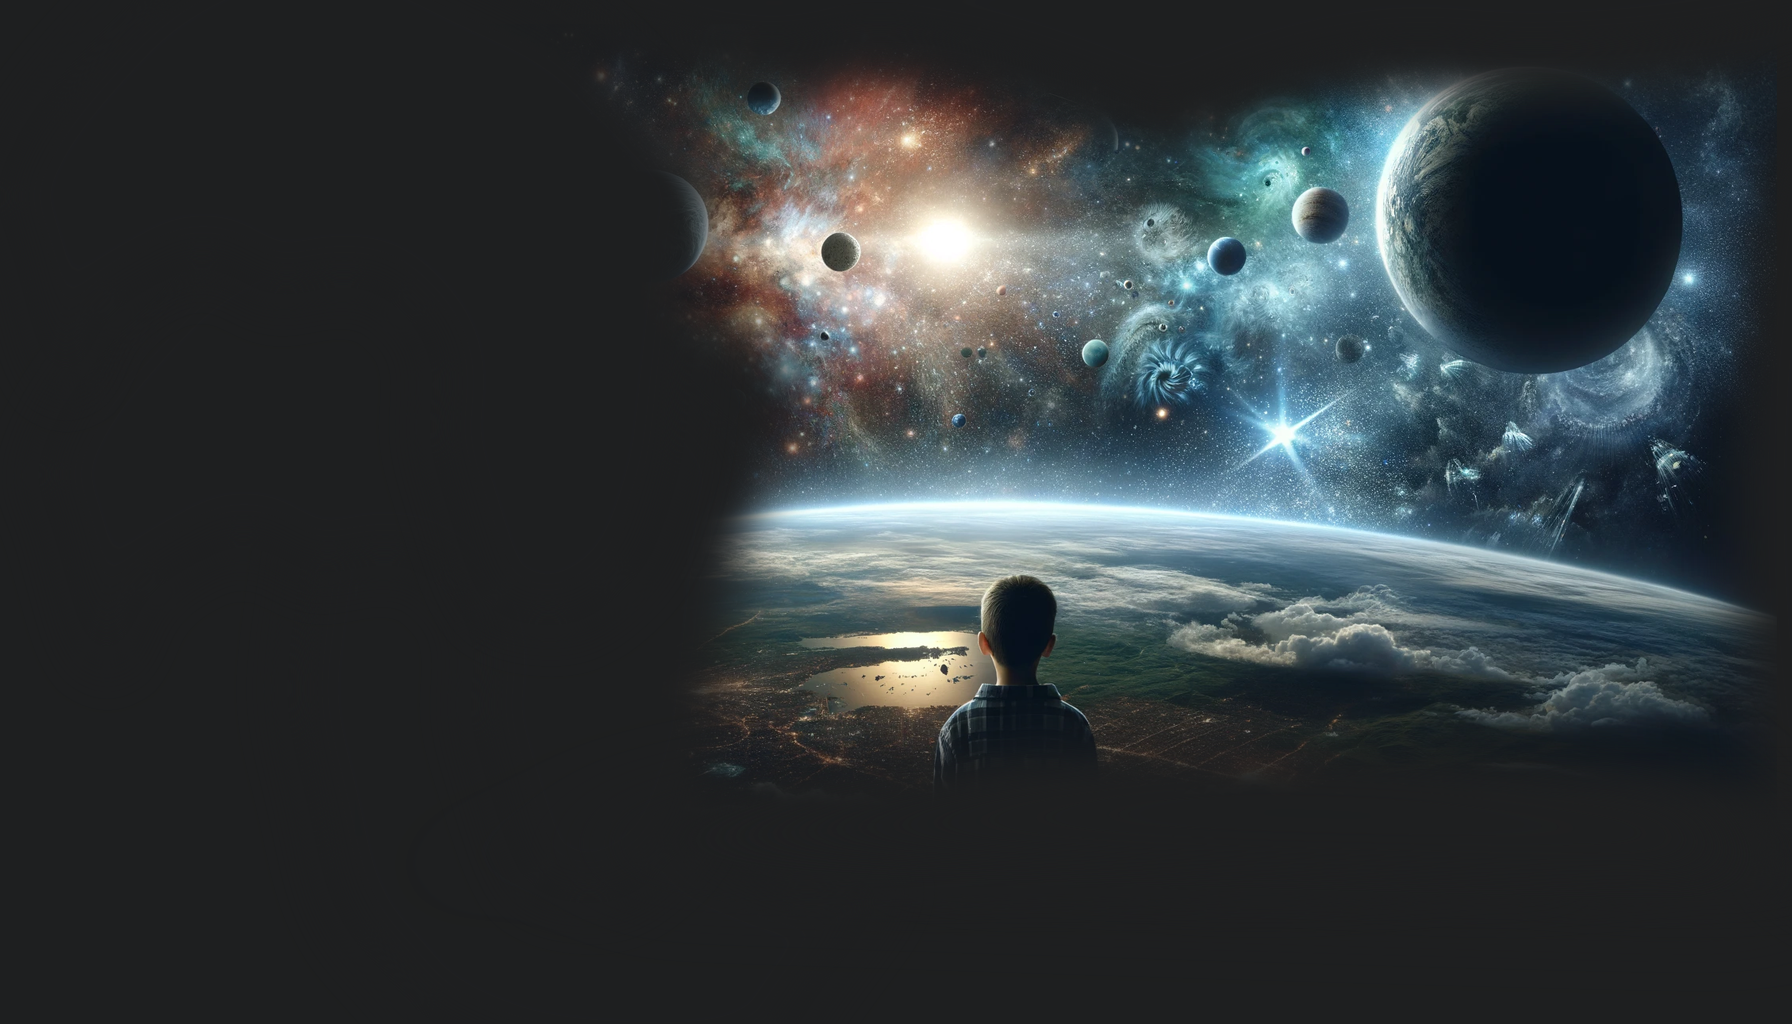
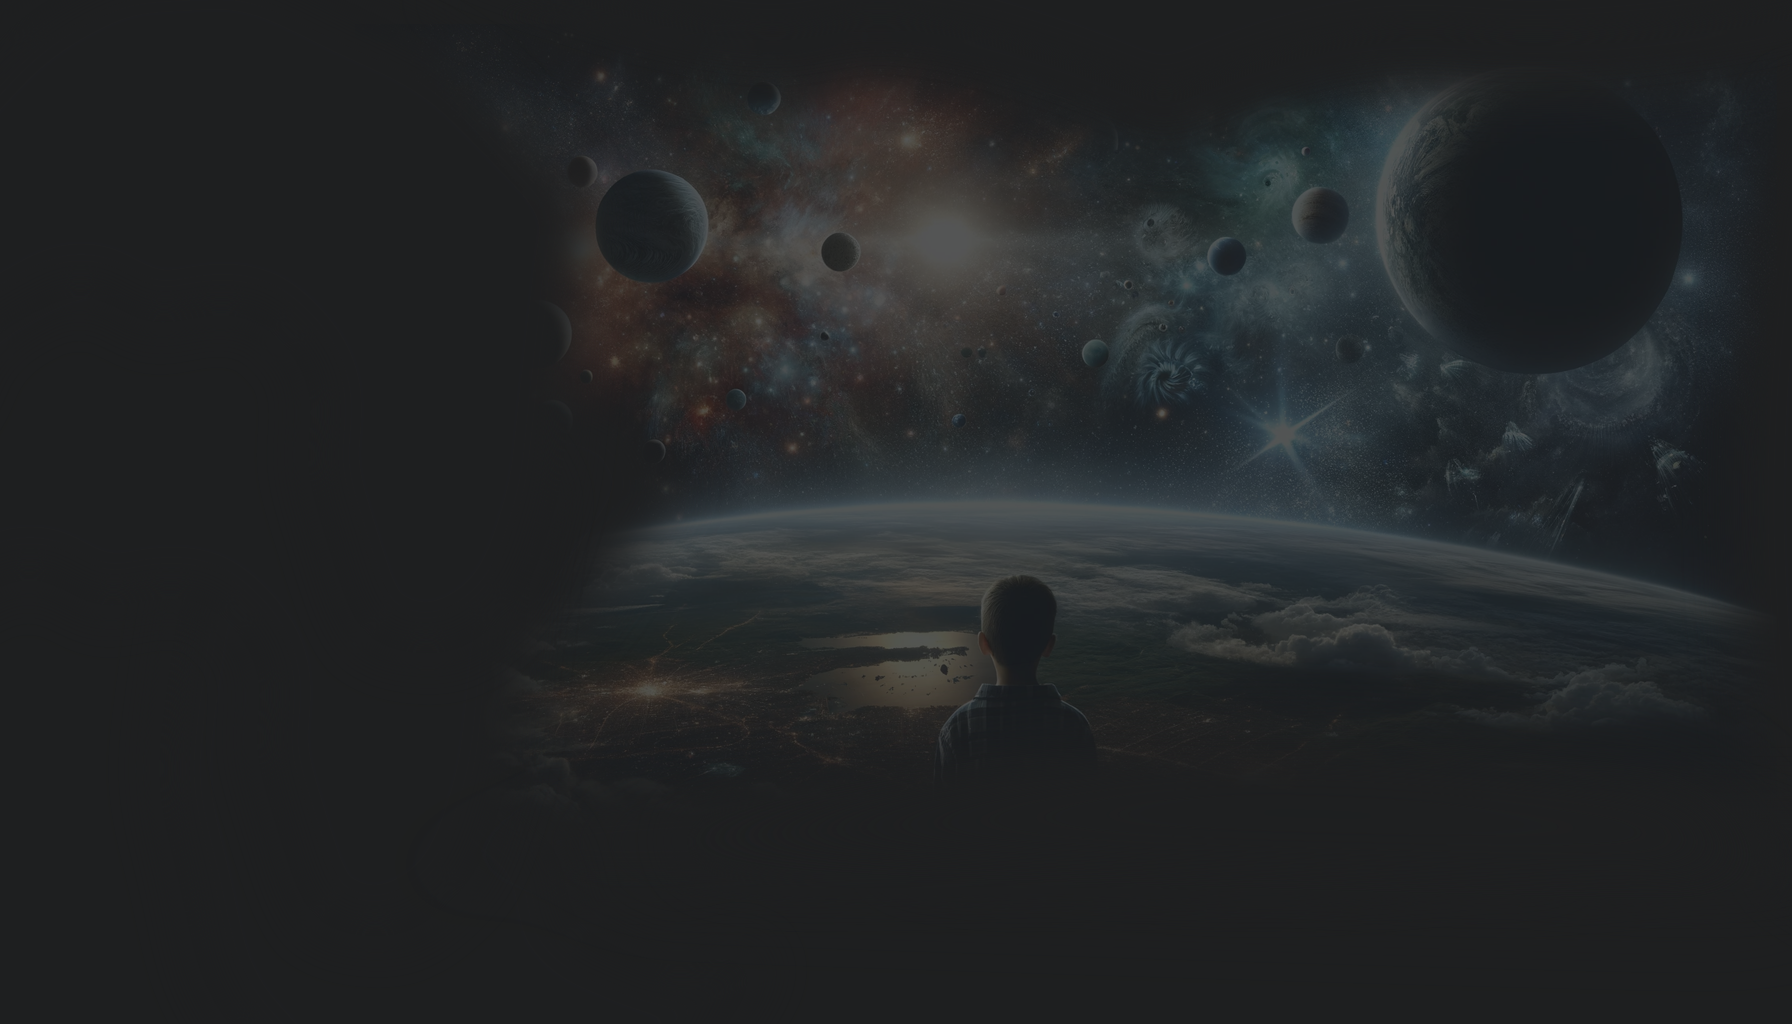
modified:   assets/images/heroImage.png 	modified:   assets/style.css

Changed region(s): [[0.3125, 0.0625, 1.0, 0.75], [0.375, 0.3438, 0.4062, 0.4062], [0.3125, 0.1562, 0.3438, 0.1875]]

diff --git a/assets/style.css b/assets/style.css
@@ -330,18 +330,21 @@ align-items: end;
 
 .finderSection {
     display: flex;
-    flex-direction: column;
-    justify-content: center;
-    align-items: center;
-    gap: 1rem;
-    width: 100%;
-    height: 100%;
-    padding-top: 5% ;
-    padding-left: 17%;
-    padding-right: 17%;
-    padding-bottom: 3%;
-    background: linear-gradient(to right, #000000, #363636, #131313);
-    box-shadow: 0 4px 8px rgba(0, 0, 0, 0.3);
+flex-direction: column;
+justify-content: center;
+align-items: center;
+gap: 1rem;
+width: 100%;
+height: 100%;
+padding-top: 5%;
+padding-left: 17%;
+padding-right: 17%;
+padding-bottom: 3%;
+background: url('/assets/images/heroImage.png'), linear-gradient(to right, #000000, #363636, #131313);
+background-size: cover; /* ensures the image covers the entire element */
+background-position: center; /* centers the background image */
+box-shadow: 0 4px 8px rgba(0, 0, 0, 0.3);
+
 }
 
 
